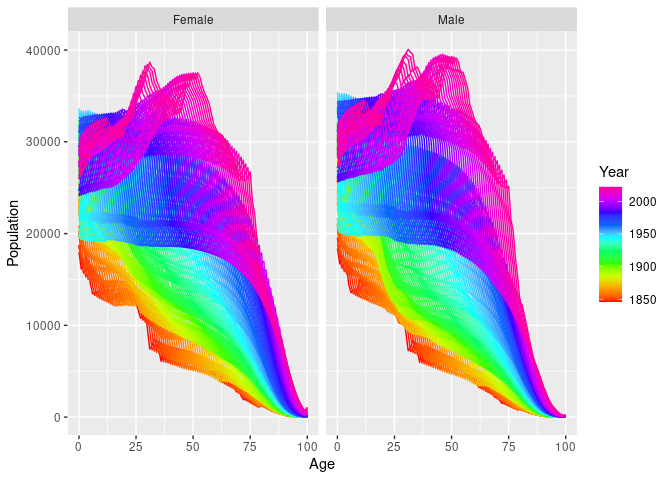
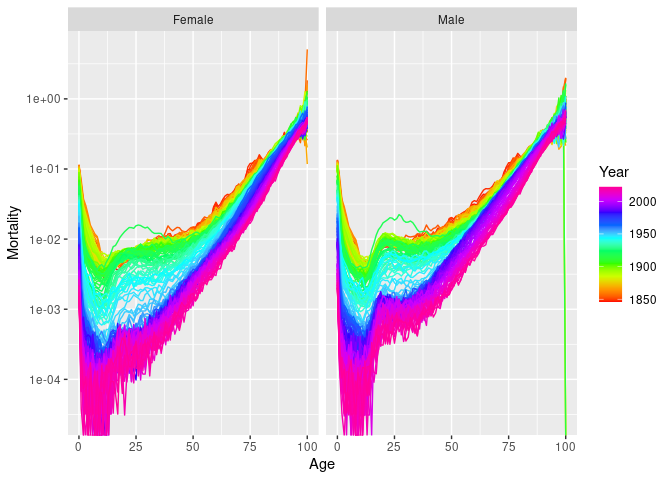
Further improvements to readme

diff --git a/README.md b/README.md
@@ -27,33 +27,14 @@ You can install the **development** version from
 pak::pak("robjhyndman/vital")
 ```
 
-## Example
+## Examples
 
 First load the necessary packages.
 
 ``` r
 library(vital)
 library(tsibble)
-#> 
-#> Attaching package: 'tsibble'
-#> The following objects are masked from 'package:base':
-#> 
-#>     intersect, setdiff, union
-```
-
-``` r
 library(dplyr)
-#> 
-#> Attaching package: 'dplyr'
-#> The following objects are masked from 'package:stats':
-#> 
-#>     filter, lag
-#> The following objects are masked from 'package:base':
-#> 
-#>     intersect, setdiff, setequal, union
-```
-
-``` r
 library(ggplot2)
 ```
 
@@ -63,8 +44,11 @@ The basic data object is a `vital`, which is time-indexed tibble that
 contains vital statistics such as births, deaths, population counts, and
 mortality and fertility rates.
 
+We will use Norwegian data in the following examples. First, let’s
+remove the “Total” Sex category and collapse the upper ages into a final
+age group of 100+.
+
 ``` r
-# Examples using Norwegian data
 nor <- norway_mortality |>
   filter(Sex != "Total") |>
   collapse_ages(max_age = 100) 
@@ -86,11 +70,9 @@ nor
 #> # ℹ 35,744 more rows
 ```
 
-The upper ages have been collapsed into a final age group of 100+.
-
-This example contains data from 1846 to 2022. It must have a time index
-variable (here `Year`), and optionally other categorical variables known
-as “key” variables. Each row must have a unique combination of the index
+This example contains data from 1846 to 2022. It must have a time
+“index” variable, and optionally other categorical variables known as
+“key” variables. Each row must have a unique combination of the index
 and key variables. Some columns are “vital” variables, such as “Age” and
 “Sex”.
 
@@ -120,7 +102,10 @@ the variable is plotted against age.
 
 ``` r
 nor |> 
-  autoplot(Population)
+  autoplot(Mortality) + scale_y_log10()
+#> Warning in scale_y_log10(): log-10 transformation introduced infinite values.
+#> Warning: Removed 4 rows containing missing values or values outside the scale range
+#> (`geom_line()`).
 ```
 
 <img src="man/figures/README-autoplot-1.png" width="100%" />
